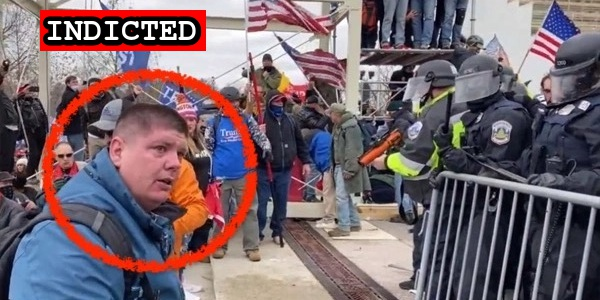
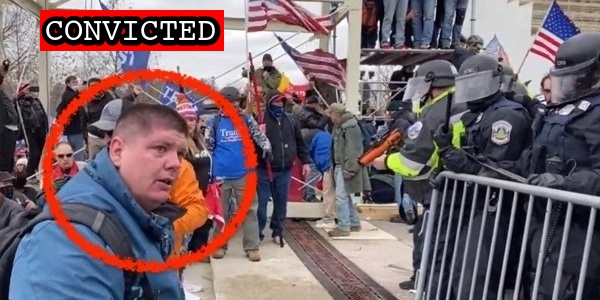
Latest

Changed region(s): [[0.06, 0.03, 0.39, 0.18]]

diff --git a/docs/_suspects/joseph-padilla.md b/docs/_suspects/joseph-padilla.md
@@ -4,11 +4,11 @@ lastName: Padilla
 hashtag: BigBlueDude
 aka: Jose Padilla
 residence: Tennessee
-status: Indicted
+status: Convicted
 date: 2021-02-22
 charged: 2021-02-22
 indicted: 2021-03-12
-convicted:
+convicted: 2023-05-03
 acquitted:
 sentenced:
 dismissed:
@@ -32,7 +32,7 @@ raid: joseph-padilla.png
 perpwalk:
 quote: "I just want to say that as a first-hand observer of every point of last night, that it was not Antifa."
 title: Joseph Padilla charged on February 22, 2021
-description: Click for latest case details. Suspects innocent until proven guilty.
+description: Convicted on May 3, 2023. Click for latest case details.
 author: seditiontrack
 layout: suspect
 published: true
@@ -41,8 +41,49 @@ caseName: USA v. PADILLA
 judge: John D. Bates
 videos:
 charges:
+  - code: 18 USC § 111(a)(1)
+    title: Assaulting, resisting, or impeding certain officers or employees
+    url: https://www.law.cornell.edu/uscode/text/18/111
+    felony: true
+  - code: 18 USC § 231(a)(3)
+    title: Obstruction of Law Enforcement During Civil Disorder
+    url: https://www.law.cornell.edu/uscode/text/18/231
+    felony: true
+  - code: 18 USC § 111(a)(1) and (b)
+    title: Assaulting, resisting, or impeding certain officers or employees (using a deadly or dangerous weapon)
+    url: https://www.law.cornell.edu/uscode/text/18/111
+    felony: true
+  - code: 18 USC § 231(a)(3)
+    title: Obstruction of Law Enforcement During Civil Disorder
+    url: https://www.law.cornell.edu/uscode/text/18/231
+    felony: true
+  - code: 18 USC § 1512(c)(2),2
+    title: Obstruction of an Official Proceeding (Aiding and Abetting)
+    url: https://www.law.cornell.edu/uscode/text/18/1512
+    felony: true
+  - code: 18 USC § 1752(a)(1) and b(1)(A)
+    title: Entering a restricted building or grounds (w/a deadly weapon)
+    url: https://www.law.cornell.edu/uscode/text/18/1752
+    felony: true
+  - code: 18 USC § 1752(a)(2) and b(1)(A)
+    title: Disorderly and Disruptive Conduct in a Restricted Building or Grounds (w/a deadly weapon)
+    url: https://www.law.cornell.edu/uscode/text/18/1752
+    felony: true
+  - code: 18 USC § 1752(a)(4), (b)(1)(A)
+    title: Entering a restricted building or grounds with a dangerous or deadly weapon
+    url: https://www.law.cornell.edu/uscode/text/18/1752
+    felony: true
+  - code: 40 USC § 5104(e)(2)(D)
+    title: Disorderly Conduct in a Capitol Building
+    url: https://www.law.cornell.edu/uscode/text/40/5104
+    felony: false
+  - code: 40 USC § 5104(e)(2)(F)
+    title: Act of physical violence on Capitol grounds
+    url: https://www.law.cornell.edu/uscode/text/40/5104
+    felony: false
 sentence:
 ---
+
 - [News Report](https://www.timesfreepress.com/news/local/story/2021/feb/23/chattanooga-area-man-accused-participating-capitol-riot-january-6-arrested/542166/)
 - [Statement of Facts](https://www.justice.gov/usao-dc/case-multi-defendant/file/1371481/download)
-- [Indictment](https://www.justice.gov/usao-dc/case-multi-defendant/file/1461486/download)
+- [Indictment](https://storage.courtlistener.com/recap/gov.uscourts.dcd.228873/gov.uscourts.dcd.228873.82.0_1.pdf)

diff --git a/docs/_suspects/stewart-parks.md b/docs/_suspects/stewart-parks.md
@@ -4,11 +4,11 @@ lastName: Parks
 hashtag: GreyFleeceGadsdenFlag
 aka:
 residence: Tennessee
-status: Charged
+status: Convicted
 date: 2021-05-24
 charged: 2021-05-24
 indicted:
-convicted:
+convicted: 2023-05-03
 acquitted:
 sentenced:
 dismissed:
@@ -17,7 +17,7 @@ plea_hearing:
 trial_date: 2023-04-24
 trial_type: Bench Trial
 jury_selection:
-sentencing:
+sentencing: 2023-08-25
 status_conference:
 age:
 occupation:
@@ -32,7 +32,7 @@ raid:
 perpwalk:
 quote: "Let's just say this dc trip was more eventful than the 8th grade trip"
 title: Stewart Parks charged on May 24th, 2021
-description: Click for latest case details. Suspects innocent until proven guilty.
+description: Convicted on May 3, 2023. Click for latest case details.
 author: seditiontrack
 layout: suspect
 published: true
@@ -41,8 +41,29 @@ caseName: USA v. PARKS
 judge: Amit P. Mehta
 videos:
 charges:
+  - code: 18 USC § 1752(a)(1)
+    title: Entering a restricted building or grounds
+    url: https://www.law.cornell.edu/uscode/text/18/1752
+    felony: false
+  - code: 18 USC § 1752(a)(2)
+    title: Disorderly and disruptive conduct in a restricted building or grounds
+    url: https://www.law.cornell.edu/uscode/text/18/1752
+    felony: false
+  - code: 40 USC § 5104(e)(2)(D)
+    title: Disorderly Conduct in a Capitol Building
+    url: https://www.law.cornell.edu/uscode/text/40/5104
+    felony: false
+  - code: 40 USC § 5104(e)(2)(G)
+    title: Parading, demonstrating or picketing in a Capitol building
+    url: https://www.law.cornell.edu/uscode/text/40/5104
+    felony: false
+  - code: 18 USC § 641
+    title: Theft of Government Property
+    url: https://www.law.cornell.edu/uscode/text/18/641
+    felony: false
 sentence:
 ---
+
 - [News Report](https://www.wsmv.com/news/two-middle-tennessee-residents-arrested-for-role-in-us-capitol-riot/article_8f4af518-c4c0-11eb-be8e-af86539b82fc.html)
 - [Statement of Facts](https://www.justice.gov/usao-dc/case-multi-defendant/file/1401226/download)
 - [Information](https://www.justice.gov/usao-dc/case-multi-defendant/file/1413521/download)

diff --git a/docs/_suspects/lloyd-cruz.md b/docs/_suspects/lloyd-cruz.md
@@ -41,20 +41,19 @@ caseName: USA v. CRUZ
 judge: Reggie B. Walton
 videos:
 charges:
-  - code: 18 USC § 1752(a)(1)
-    title: Entering a restricted building or grounds
-    url: https://www.law.cornell.edu/uscode/text/18/1752
-    felony: false
-  - code: 40 USC § 5104(e)(2)(G)
-    title: Parading, demonstrating or picketing in a Capitol building
-    url: https://www.law.cornell.edu/uscode/text/40/5104
-    felony: false
+- code: 18 USC § 1752(a)(1)
+  title: Entering a restricted building or grounds
+  url: https://www.law.cornell.edu/uscode/text/18/1752
+  felony: false
+- code: 40 USC § 5104(e)(2)(G)
+  title: Parading, demonstrating or picketing in a Capitol building
+  url: https://www.law.cornell.edu/uscode/text/40/5104
+  felony: false
 sentence:
   - 45 days incarceration
   - 1 year probation
   - $500 restitution
 ---
-
 - [News Report](https://www.kansascity.com/news/politics-government/article259374669.html)
 - [Statement of Facts](https://www.justice.gov/usao-dc/case-multi-defendant/file/1481061/download)
 - [Information](https://www.justice.gov/usao-dc/case-multi-defendant/file/1481066/download)

diff --git a/docs/_suspects/joshua-johnson.md b/docs/_suspects/joshua-johnson.md
@@ -41,13 +41,12 @@ caseName: USA v. JOHNSON
 judge: Christopher R. Cooper
 videos:
 charges:
-  - code: 18 USC § 1512(c)(2),2
-    title: Obstruction of an Official Proceeding (Aiding and Abetting)
-    url: https://www.law.cornell.edu/uscode/text/18/1512
-    felony: true
+- code: 18 USC § 1512(c)(2),2
+  title: Obstruction of an Official Proceeding (Aiding and Abetting)
+  url: https://www.law.cornell.edu/uscode/text/18/1512
+  felony: true
 sentence:
 ---
-
 - [News Report](https://www.rawstory.com/ma-2657044063/)
 - [Complaint](https://www.justice.gov/usao-dc/case-multi-defendant/file/1487181/download)
 - [Statement of Facts](https://www.justice.gov/usao-dc/case-multi-defendant/file/1487186/download)

diff --git a/docs/_suspects/rachel-powell.md b/docs/_suspects/rachel-powell.md
@@ -15,8 +15,8 @@ dismissed:
 deceased:
 plea_hearing:
 trial_date: 2023-05-08
-trial_type: Jury Trial
-jury_selection: 2023-05-08
+trial_type: Bench Trial
+jury_selection:
 sentencing:
 status_conference:
 age: 40

diff --git a/docs/_suspects/markus-maly.md b/docs/_suspects/markus-maly.md
@@ -17,7 +17,7 @@ plea_hearing:
 trial_date: 2022-11-29
 trial_type: Jury Trial
 jury_selection: 2022-11-29
-sentencing: 2023-04-28
+sentencing: 2023-06-09
 status_conference:
 age: 47
 occupation:

diff --git a/docs/_suspects/daniel-rodriguez.md b/docs/_suspects/daniel-rodriguez.md
@@ -17,7 +17,7 @@ plea_hearing: 2023-02-14
 trial_date:
 trial_type:
 jury_selection: 2023-02-27
-sentencing: 2023-05-16
+sentencing: 2023-06-21
 status_conference:
 age: 38
 occupation:

diff --git a/docs/_suspects/jonathan-mellis.md b/docs/_suspects/jonathan-mellis.md
@@ -13,7 +13,7 @@ acquitted:
 sentenced:
 dismissed:
 deceased:
-plea_hearing: 2023-05-05
+plea_hearing: 2023-05-26
 trial_date:
 trial_type:
 jury_selection:
